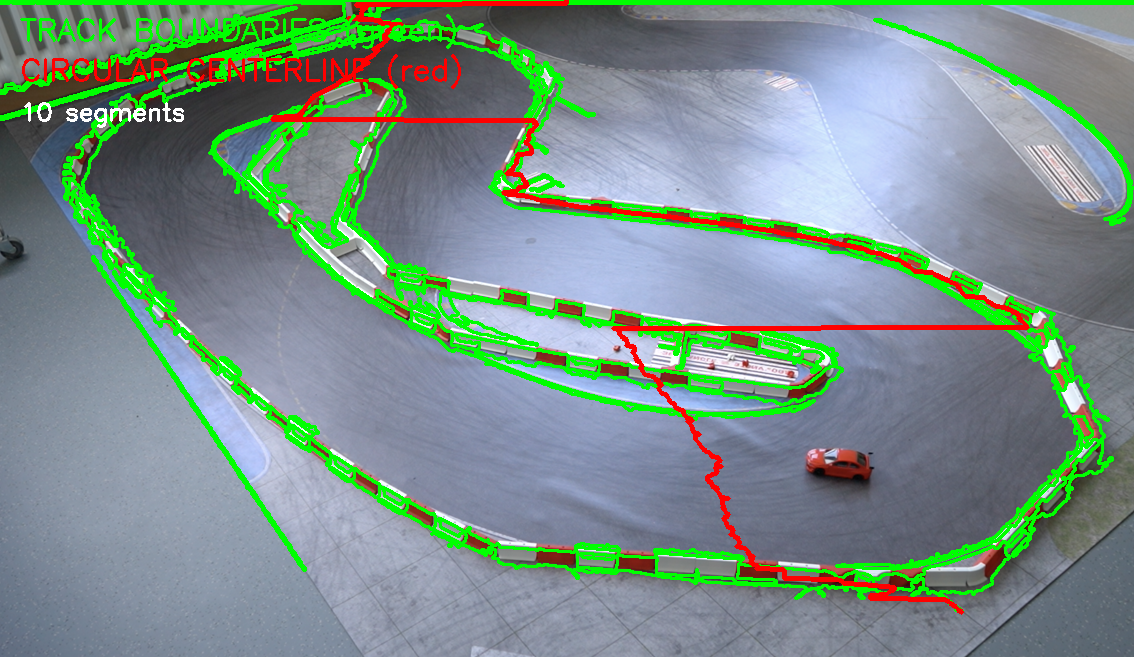
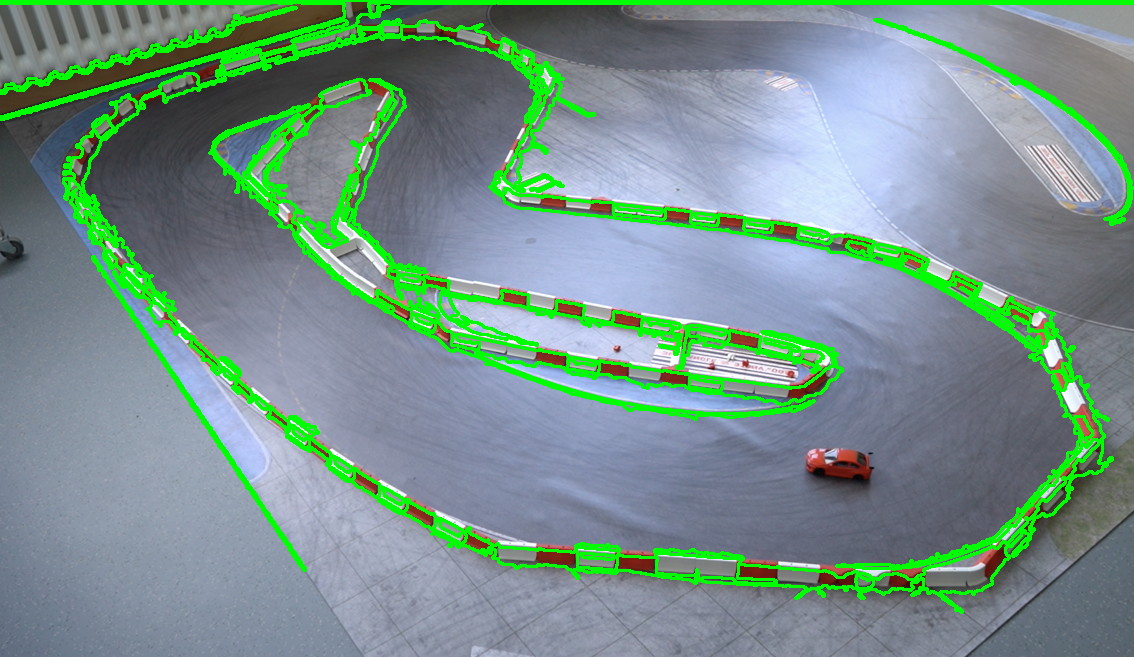
update boundary detection

diff --git a/rc_autonomy/boundary.py b/rc_autonomy/boundary.py
@@ -57,11 +57,8 @@ class BoundaryDetector:
 
     def detect_road_edges(self, frame: np.ndarray) -> Tuple[Optional[int], Optional[int], Optional[int], Optional[np.ndarray]]:
         """
-        Detect road edges (red/white markers) for curved roads using advanced color detection.
+        Detect road edges for circular track using adaptive threshold.
         Returns: (left_edge_x, center_x, right_edge_x, road_mask)
-        road_mask is a binary mask showing the detected road region.
-        
-        Professional algorithm for reliable boundary detection on racing tracks.
         """
         if frame.ndim != 3 or frame.shape[2] != 3:
             return None, None, None, None
@@ -70,153 +67,79 @@ class BoundaryDetector:
         
         height, width = frame.shape[:2]
         
-        # Convert to HSV for robust color detection
-        hsv = cv2.cvtColor(frame, cv2.COLOR_BGR2HSV)
+        # Convert to grayscale
+        gray = cv2.cvtColor(frame, cv2.COLOR_BGR2GRAY)
+        blurred = cv2.GaussianBlur(gray, (5, 5), 0)
         
-        # ===== OPTIMIZED WHITE DETECTION =====
-        # Track has white markers - focus detection on white only
-        # Range 1: Very bright white (minimal saturation, maximum brightness)
-        white_mask1 = cv2.inRange(hsv, np.array([0, 0, 180]), np.array([180, 30, 255]))  # Bright white
-        # Range 2: Medium brightness white (low saturation, medium-high value)
-        white_mask2 = cv2.inRange(hsv, np.array([0, 0, 120]), np.array([180, 60, 200]))  # Light gray-white
-        # Range 3: Slightly tinted white (minimal saturation, medium value)
-        white_mask3 = cv2.inRange(hsv, np.array([0, 0, 100]), np.array([180, 80, 180]))  # Pale white-gray
+        # Adaptive threshold
+        binary = cv2.adaptiveThreshold(
+            blurred, 255,
+            cv2.ADAPTIVE_THRESH_GAUSSIAN_C,
+            cv2.THRESH_BINARY_INV,
+            11, 2
+        )
         
-        # Combine all white detection ranges for comprehensive coverage
-        edge_mask = cv2.bitwise_or(cv2.bitwise_or(white_mask1, white_mask2), white_mask3)
+        # Minimal morphology to remove noise
+        kernel = np.ones((2, 2), np.uint8)
+        binary = cv2.morphologyEx(binary, cv2.MORPH_OPEN, kernel, iterations=1)
+        binary = cv2.morphologyEx(binary, cv2.MORPH_CLOSE, kernel, iterations=1)
         
-        # ===== MORPHOLOGICAL CLEANING =====
-        kernel_small = cv2.getStructuringElement(cv2.MORPH_ELLIPSE, (3, 3))
-        kernel_medium = cv2.getStructuringElement(cv2.MORPH_ELLIPSE, (5, 5))
-        
-        # Remove noise (open operation)
-        edge_mask = cv2.morphologyEx(edge_mask, cv2.MORPH_OPEN, kernel_small, iterations=1)
-        
-        # Fill small holes (close operation)
-        edge_mask = cv2.morphologyEx(edge_mask, cv2.MORPH_CLOSE, kernel_medium, iterations=2)
-        
-        # Dilate to enhance, connect boundary parts, and fill gaps between white markers
-        edge_mask = cv2.dilate(edge_mask, kernel_medium, iterations=3)
-        
-        # ===== FIND CONTOURS =====
-        contours, _ = cv2.findContours(edge_mask, cv2.RETR_EXTERNAL, cv2.CHAIN_APPROX_SIMPLE)
+        # Find contours
+        contours, _ = cv2.findContours(binary, cv2.RETR_EXTERNAL, cv2.CHAIN_APPROX_SIMPLE)
         
         if len(contours) == 0:
             return None, None, None, None
         
-        # ===== HANDLE CIRCULAR TRACKS WITH INNER AND OUTER BOUNDARIES =====
-        # For circular/round tracks:
-        # - There are TWO boundaries: inner (donut hole) and outer (track edge)
-        # - The road is between these two boundaries
-        # - Find leftmost/rightmost points on BOTH to define the track
-        
-        # Sort contours by area (largest first)
+        # Sort by area and keep large contours
         contours_sorted = sorted(contours, key=cv2.contourArea, reverse=True)
+        large_contours = [(cv2.contourArea(c), c) for c in contours_sorted if cv2.contourArea(c) >= 700]
         
-        # We need at least 2 significant contours for a circular track
-        if len(contours_sorted) >= 2:
-            # Get the two largest contours (outer and inner boundaries)
-            outer_contour = contours_sorted[0]
-            inner_contour = contours_sorted[1]
+        if len(large_contours) < 2:
+            return None, None, None, None
+        
+        # Get top 10 contours
+        boundary_contours = large_contours[:10]
+        
+        # Get outer and inner boundaries (largest two)
+        outer_area, outer_boundary = boundary_contours[0]
+        inner_area, inner_boundary = boundary_contours[1]
+        
+        try:
+            # Get extremes from outer boundary
+            left_edge_x = int(outer_boundary[:, :, 0].min())
+            right_edge_x = int(outer_boundary[:, :, 0].max())
             
-            outer_area = cv2.contourArea(outer_contour)
-            inner_area = cv2.contourArea(inner_contour)
+            # Create masks
+            outer_mask = np.zeros((height, width), dtype=np.uint8)
+            inner_mask = np.zeros((height, width), dtype=np.uint8)
+            cv2.drawContours(outer_mask, [outer_boundary], 0, 255, -1)
+            cv2.drawContours(inner_mask, [inner_boundary], 0, 255, -1)
             
-            # Verify they're reasonably sized
-            if outer_area > width * height * 0.01 and inner_area > width * height * 0.01:
-                try:
-                    # Get bounds for outer boundary
-                    outer_left = int(outer_contour[:, :, 0].min())
-                    outer_right = int(outer_contour[:, :, 0].max())
-                    
-                    # Get bounds for inner boundary
-                    inner_left = int(inner_contour[:, :, 0].min())
-                    inner_right = int(inner_contour[:, :, 0].max())
-                    
-                    # For a circular track, the road is between inner and outer
-                    # Left edge: use the outer left (where road starts)
-                    # Right edge: use the outer right (where road ends)
-                    # Center: between inner right and outer right (on the road)
-                    
-                    left_edge_x = outer_left
-                    right_edge_x = outer_right
-                    
-                    # Center should be roughly in the middle of the road width
-                    # For this track: inner boundary is at center, outer at edges
-                    road_center_left = (outer_left + inner_left) // 2  # Between outer-left and inner-left
-                    road_center_right = (inner_right + outer_right) // 2  # Between inner-right and outer-right
-                    
-                    # Use the right side center as the main centerline
-                    center_x = road_center_right
-                    
-                    # Verify reasonable separation
-                    min_separation = max(50, width * 0.15)
-                    if right_edge_x - left_edge_x >= min_separation:
-                        # Create road mask between the boundaries
-                        road_mask = np.zeros((height, width), dtype=np.uint8)
-                        cv2.rectangle(road_mask, (inner_left, 0), (outer_right, height), 255, -1)
-                        
-                        return left_edge_x, center_x, right_edge_x, road_mask
-                except:
-                    pass  # Fall through to fallback
-        
-        # ===== FALLBACK: SINGLE LARGE CONTOUR =====
-        # If only one large contour (complete ring), extract extremes
-        largest_contour = max(contours, key=cv2.contourArea)
-        largest_area = cv2.contourArea(largest_contour)
-        
-        if largest_area > width * height * 0.05:
-            try:
-                left_edge_x = int(largest_contour[:, :, 0].min())
-                right_edge_x = int(largest_contour[:, :, 0].max())
-                
-                min_separation = max(50, width * 0.15)
-                if right_edge_x - left_edge_x >= min_separation:
+            # Road area (between boundaries)
+            road_mask = cv2.bitwise_xor(outer_mask, inner_mask)
+            
+            # Calculate center by finding midpoint of road at middle row
+            mid_y = height // 2
+            row = road_mask[mid_y, :]
+            if np.any(row):
+                indices = np.where(row > 0)[0]
+                if len(indices) > 0:
+                    center_x = (indices[0] + indices[-1]) // 2
+                else:
                     center_x = (left_edge_x + right_edge_x) // 2
-                    
-                    road_mask = np.zeros((height, width), dtype=np.uint8)
-                    cv2.rectangle(road_mask, (left_edge_x, 0), (right_edge_x, height), 255, -1)
-                    
-                    return left_edge_x, center_x, right_edge_x, road_mask
-            except:
-                pass
-        
-        # ===== FALLBACK: IDENTIFY SEPARATE LEFT AND RIGHT EDGES =====
-        edge_candidates = []
-        
-        for contour in contours:
-            area = cv2.contourArea(contour)
+            else:
+                center_x = (left_edge_x + right_edge_x) // 2
             
-            if area < 50:
-                continue
-            
-            M = cv2.moments(contour)
-            if M["m00"] <= 0:
-                continue
-            
-            cx = int(M["m10"] / M["m00"])
-            
-            if area < width * height * 0.3:
-                edge_candidates.append((cx, area, contour))
+            # Verify reasonable separation
+            min_separation = max(50, width * 0.15)
+            if right_edge_x - left_edge_x >= min_separation:
+                return left_edge_x, center_x, right_edge_x, road_mask
+        except:
+            pass
         
-        if len(edge_candidates) < 2:
-            return None, None, None, None
+        return None, None, None, None
         
-        edge_candidates.sort(key=lambda x: x[0])
-        
-        left_edge_x = edge_candidates[0][0]
-        right_edge_x = edge_candidates[-1][0]
-        
-        min_separation = max(50, width * 0.15)
-        if right_edge_x - left_edge_x < min_separation:
-            return None, None, None, None
-        
-        road_mask = np.zeros((height, width), dtype=np.uint8)
-        cv2.rectangle(road_mask, (left_edge_x, 0), (right_edge_x, height), 255, -1)
-        
-        center_x = (left_edge_x + right_edge_x) // 2
-        
-        return left_edge_x, center_x, right_edge_x, road_mask
+        return None, None, None, None
 
     def analyze(self, frame: np.ndarray, center: Tuple[int, int], movement: Tuple[int, int]) -> Tuple[List[RayResult], ControlVector]:
         gray = frame

diff --git a/tests/extract_clean_boundaries.py b/tests/extract_clean_boundaries.py
@@ -93,59 +93,6 @@ def extract_clean_boundaries(image_path):
     
     print(f"✓ Drew {len(boundary_contours)} boundary segments in green")
     
-    # ---- Calculate circular centerline ----
-    if len(boundary_contours) >= 2:
-        # For circular track: identify inner and outer boundaries
-        # Assume largest contour is outer, second largest is inner
-        outer_boundary = boundary_contours[0][1]
-        inner_boundary = boundary_contours[1][1]
-        
-        print(f"\n{'='*70}")
-        print(f"CALCULATING CIRCULAR CENTERLINE")
-        print(f"{'='*70}")
-        print(f"  Outer boundary area: {boundary_contours[0][0]:,.0f} px²")
-        print(f"  Inner boundary area: {boundary_contours[1][0]:,.0f} px²")
-        
-        # Create masks for inner and outer boundaries
-        outer_mask = np.zeros((height, width), dtype=np.uint8)
-        inner_mask = np.zeros((height, width), dtype=np.uint8)
-        cv2.drawContours(outer_mask, [outer_boundary], 0, 255, -1)  # Fill
-        cv2.drawContours(inner_mask, [inner_boundary], 0, 255, -1)  # Fill
-        
-        # Road area is between outer and inner
-        road_mask = cv2.bitwise_xor(outer_mask, inner_mask)
-        
-        # Find centerline: for each row, get midpoint between boundaries
-        centerline_points = []
-        for y in range(height):
-            row_road = road_mask[y, :]
-            if np.any(row_road):
-                road_indices = np.where(row_road > 0)[0]
-                if len(road_indices) > 0:
-                    left_edge = road_indices[0]
-                    right_edge = road_indices[-1]
-                    center_x = (left_edge + right_edge) // 2
-                    centerline_points.append((center_x, y))
-        
-        # Draw circular centerline
-        if len(centerline_points) > 1:
-            centerline_points = np.array(centerline_points, dtype=np.int32)
-            cv2.polylines(result, [centerline_points], False, (0, 0, 255), 3)
-            cv2.polylines(clean_boundaries, [centerline_points], False, (0, 0, 255), 3)
-            print(f"✓ Drew circular centerline with {len(centerline_points)} points")
-        else:
-            print("⚠ Could not calculate centerline")
-        
-        # Add text labels
-        cv2.putText(result, "TRACK BOUNDARIES (green)", (20, 40),
-                    cv2.FONT_HERSHEY_SIMPLEX, 1.0, (0, 255, 0), 2)
-        cv2.putText(result, "CIRCULAR CENTERLINE (red)", (20, 80),
-                    cv2.FONT_HERSHEY_SIMPLEX, 1.0, (0, 0, 255), 2)
-        cv2.putText(result, f"{len(boundary_contours)} segments", (20, 120),
-                    cv2.FONT_HERSHEY_SIMPLEX, 0.8, (255, 255, 255), 2)
-    else:
-        print("⚠ Need at least 2 boundaries (inner + outer) for circular centerline")
-    
     # ---- Save results ----
     cv2.imwrite("Path-image/clean_boundaries_on_image.png", result)
     cv2.imwrite("Path-image/clean_boundaries_only.png", clean_boundaries)
